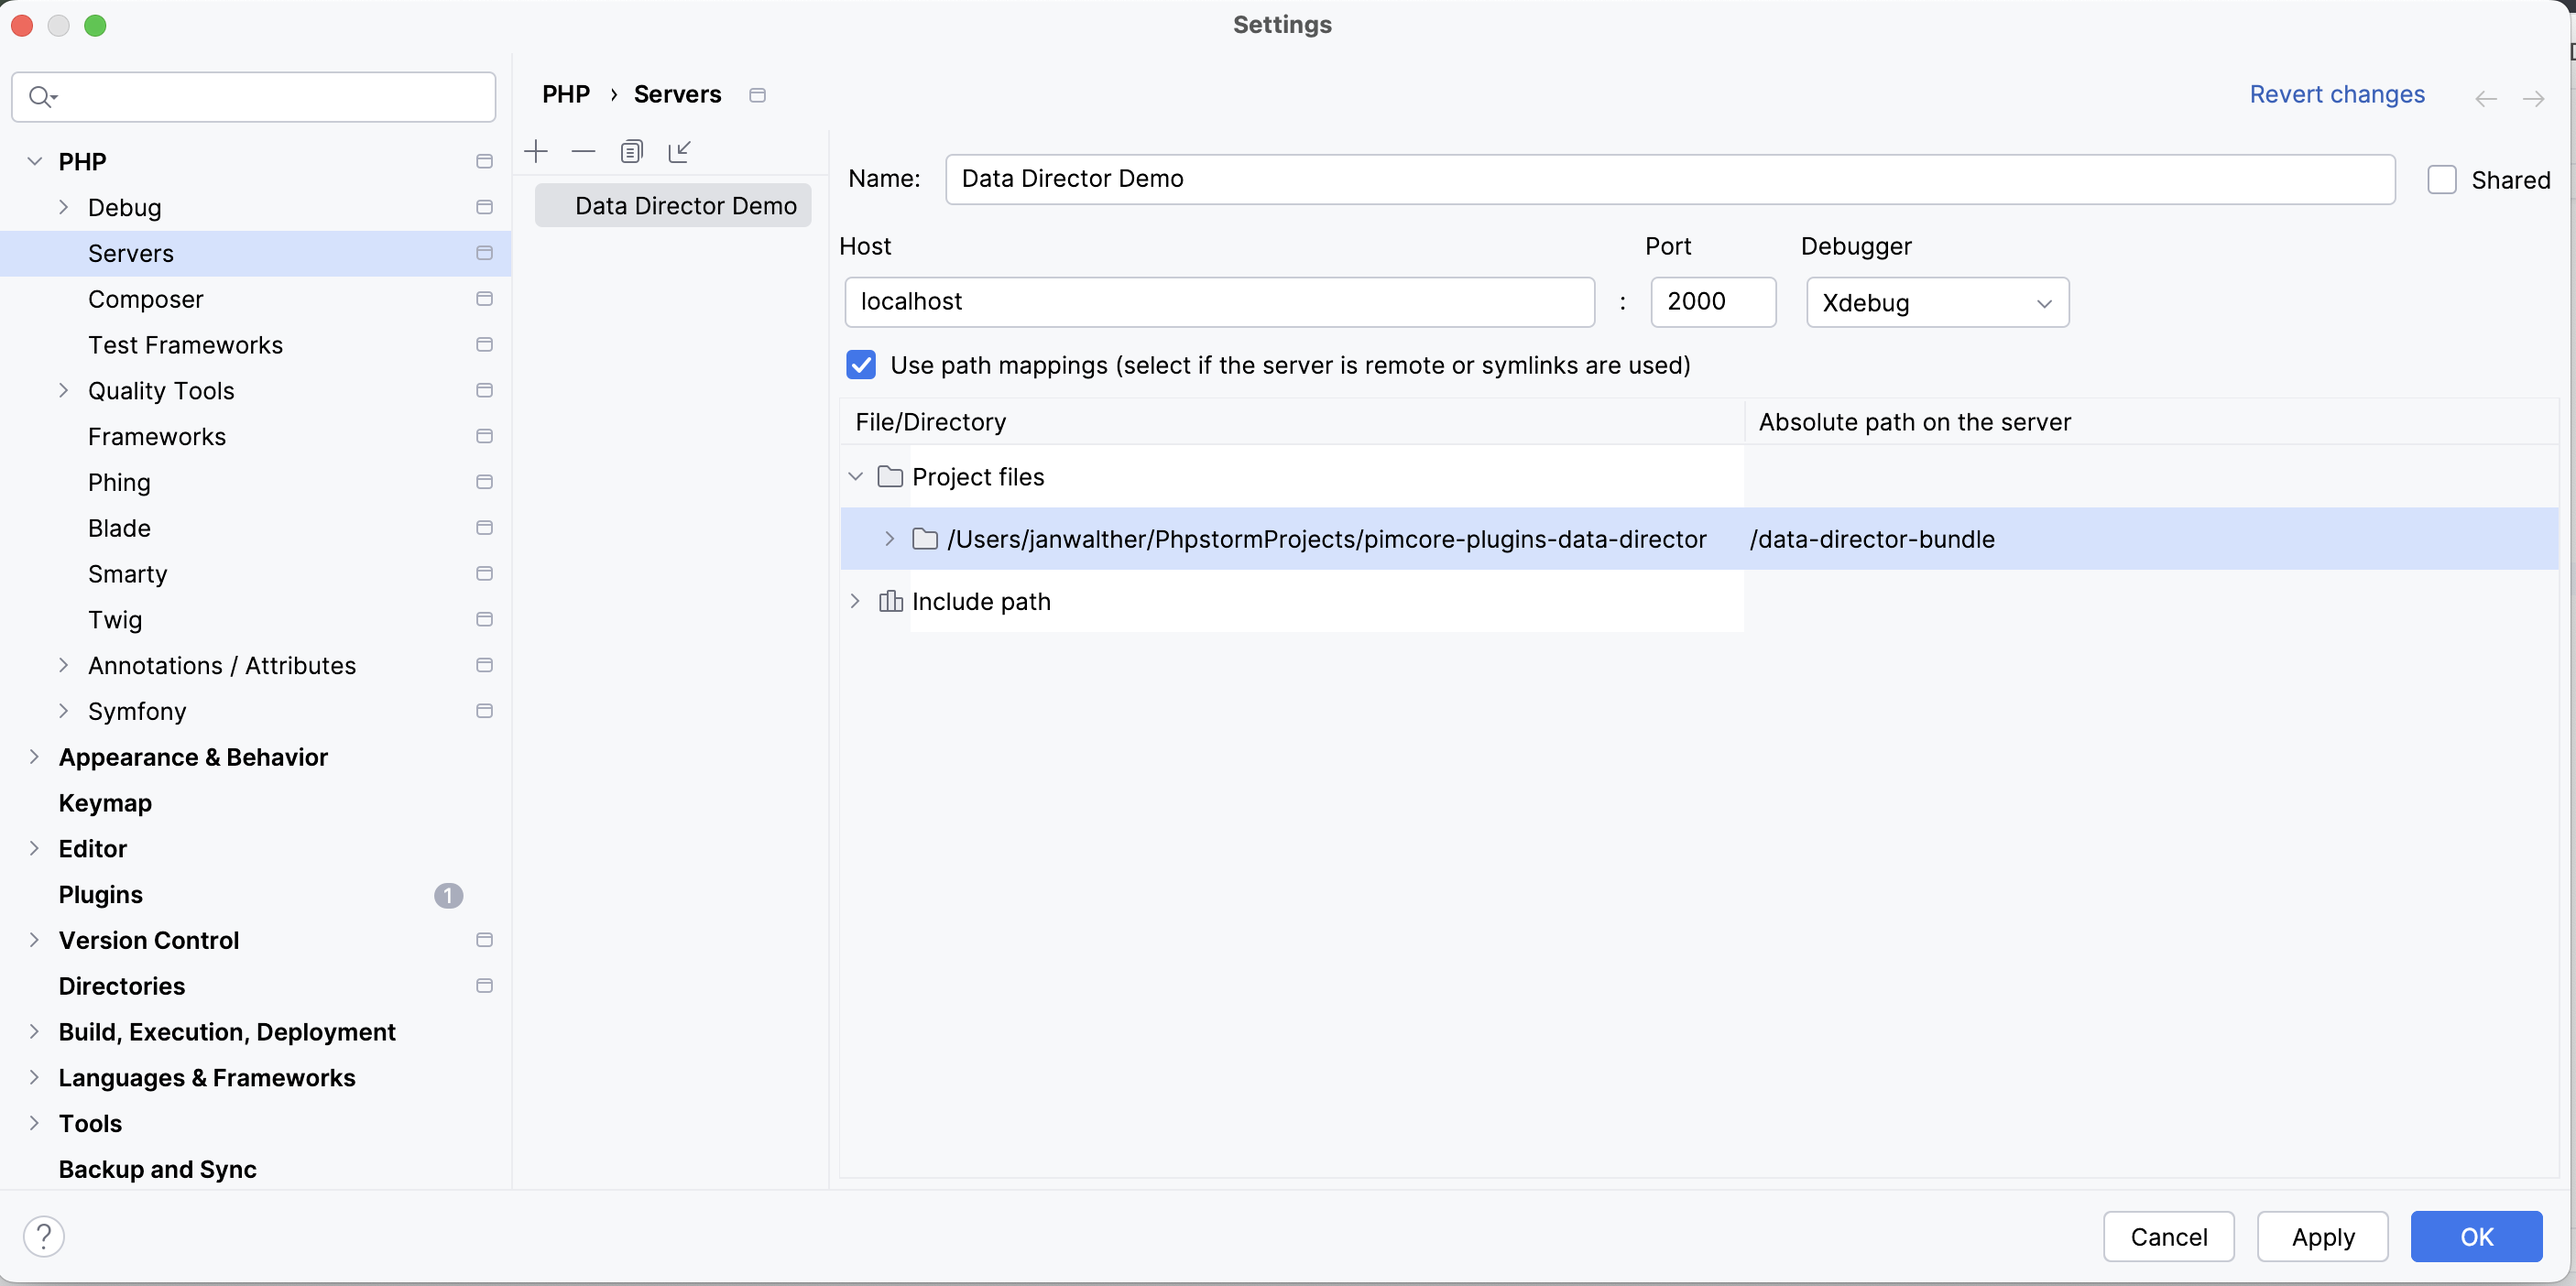
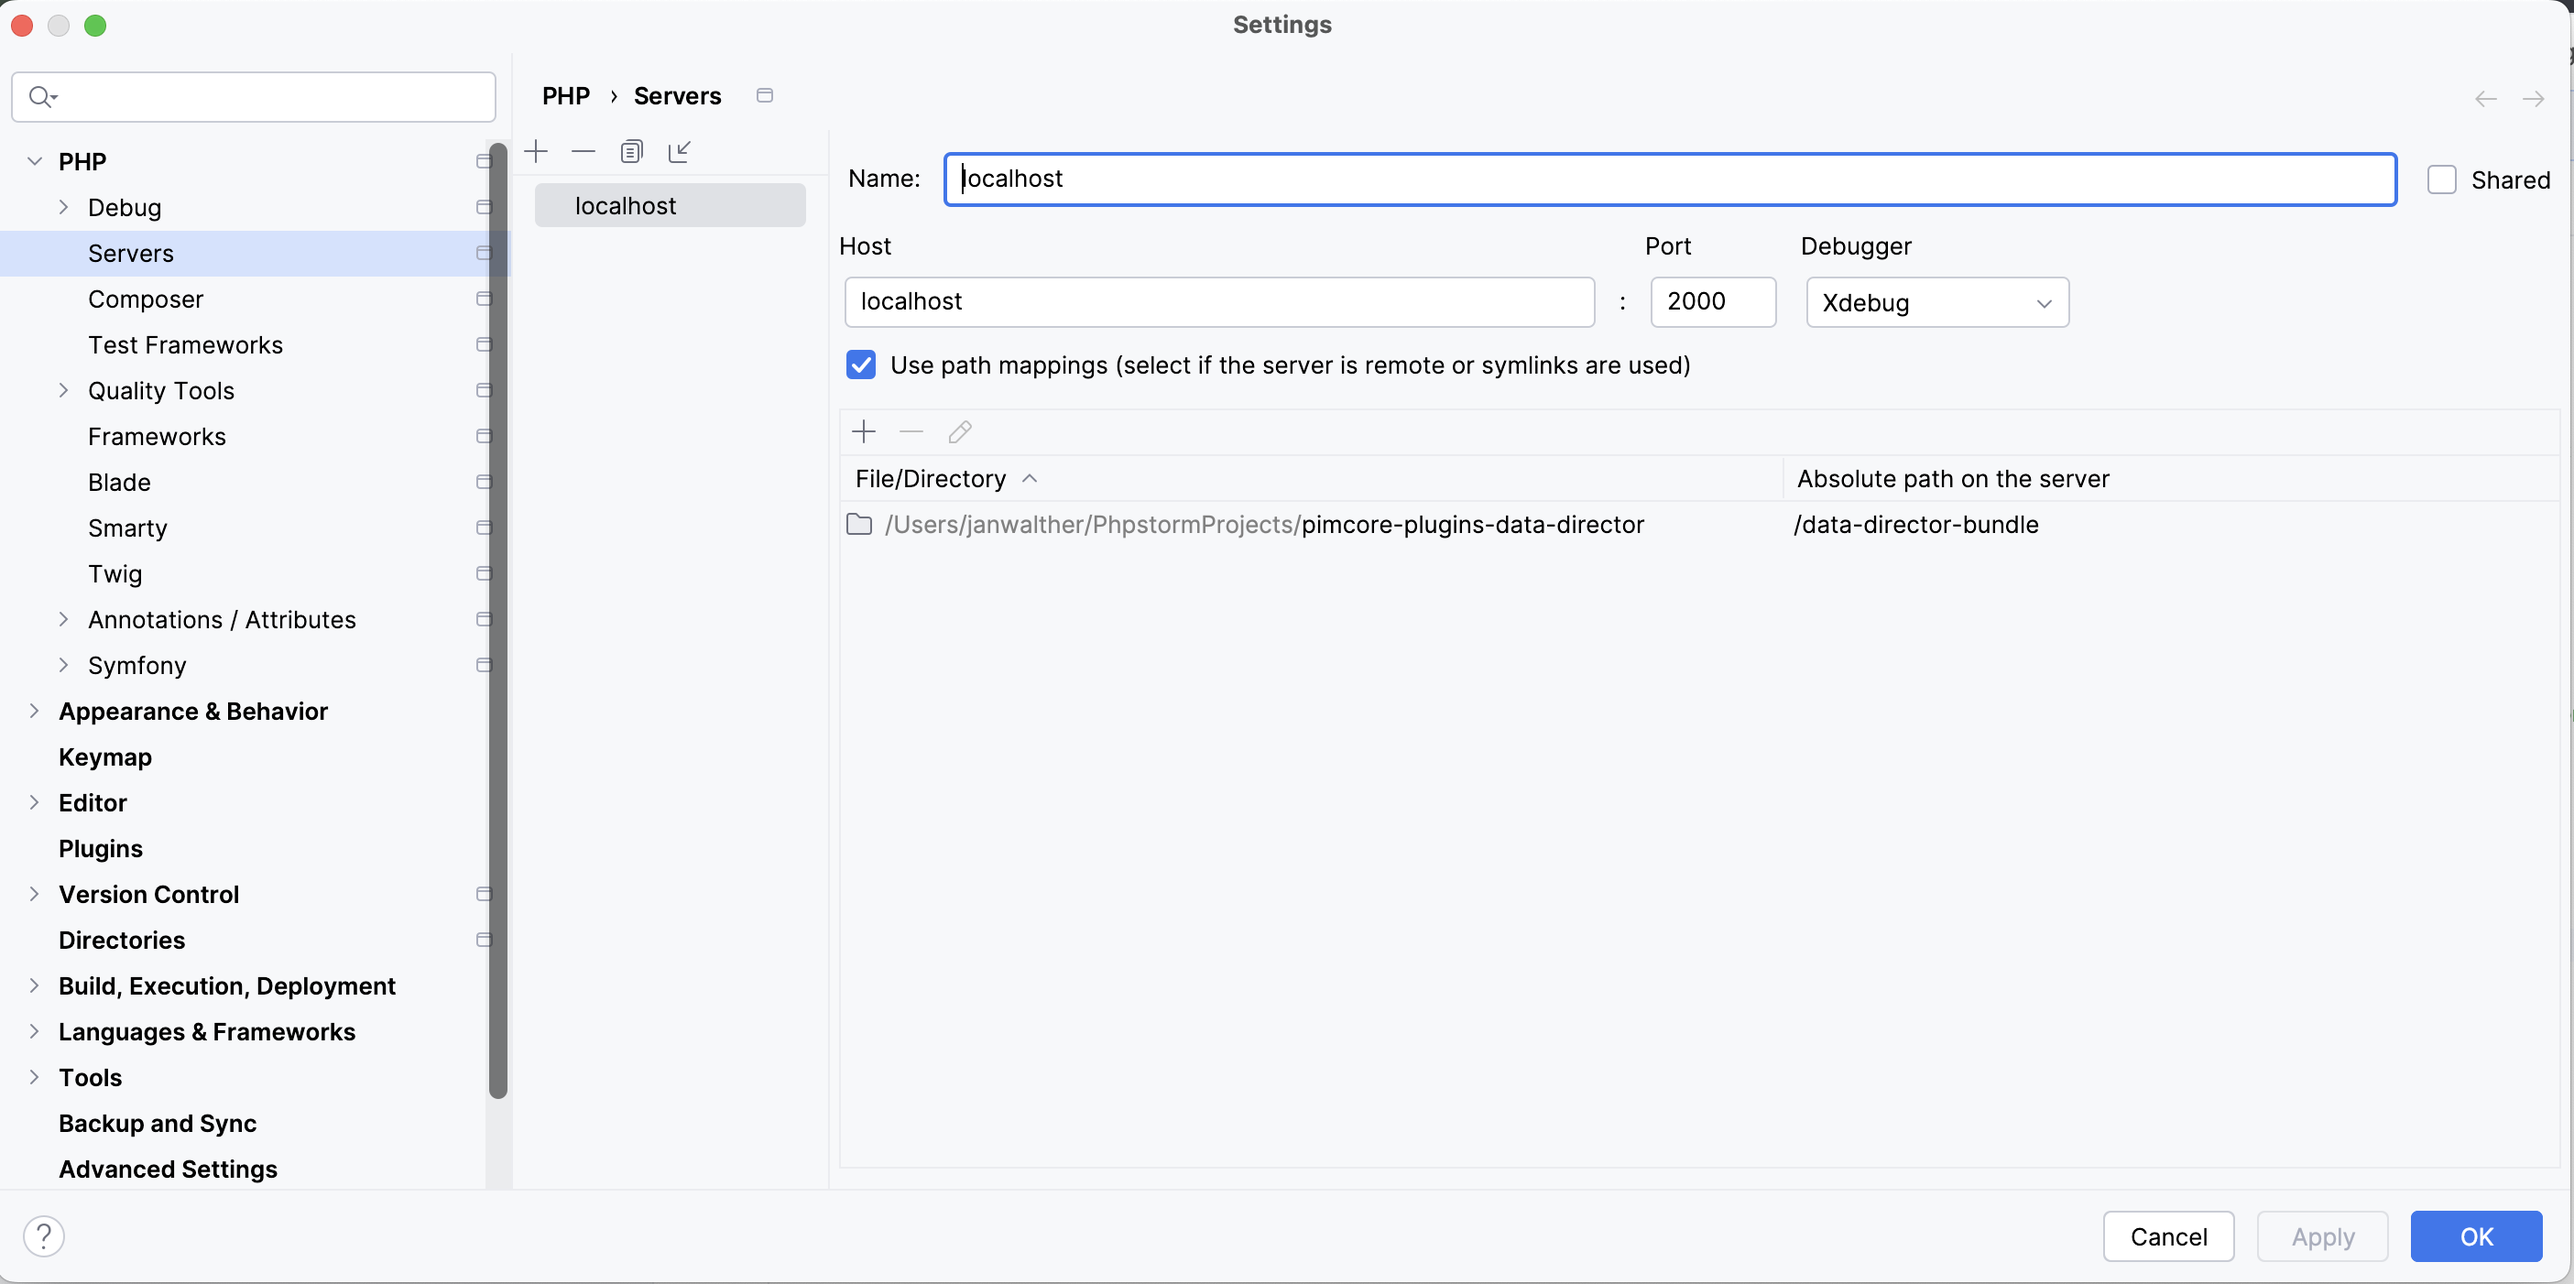
add xDebug instructions

diff --git a/docs/index.md b/docs/index.md
@@ -2337,13 +2337,14 @@ For debugging purposes you can use xDebug. Follow the steps below to set it up:
     - Force break at first line when no path mapping specified: unchecked
     ![xDebug config](img/xdebug-config.png)
 2. In PhpStorm under PHP > Servers, add a new server with the following settings:
-    - Name: Data Director Demo
+    - Name: localhost
     - Host: localhost
     - Port: 2000
     - Debugger: Xdebug
     - Use path mappings: checked
     - Map your local project root to `/data-director-bundle`
     ![xdebug server config](img/xdebug-servers.png)
+    - optionally: also map `/[local project root]/vendor` -> `/var/www/html/vendor` to also be able to add breakpoints to vendor libraries
 3. Install xDebug browser extension for [Firefox](https://addons.mozilla.org/firefox/addon/xdebug-helper-for-firefox/) or [Chrome](https://chromewebstore.google.com/detail/xdebug-chrome-extension/oiofkammbajfehgpleginfomeppgnglk)
 4. In the browser extension settings set IDE key to `PHPSTORM`
 
@@ -2354,6 +2355,8 @@ For debugging [CLI commands](#how-to-trigger-imports-and-exports), go to PhpStor
 To start debugging CLI commands, just add a breakpoint to your code and run the command, e.g. `bin/console dd:extract 1`.
 
 Breakpoints can also be added to callback functions by adding `xdebug_break();`.
+
+Hint: When you do not want to debug something, disable `Start Listening for PHP Debug Connections` in PhpStorm, otherwise it will be quite slow.
 
 #### Profiling / Performance Analysis
 
